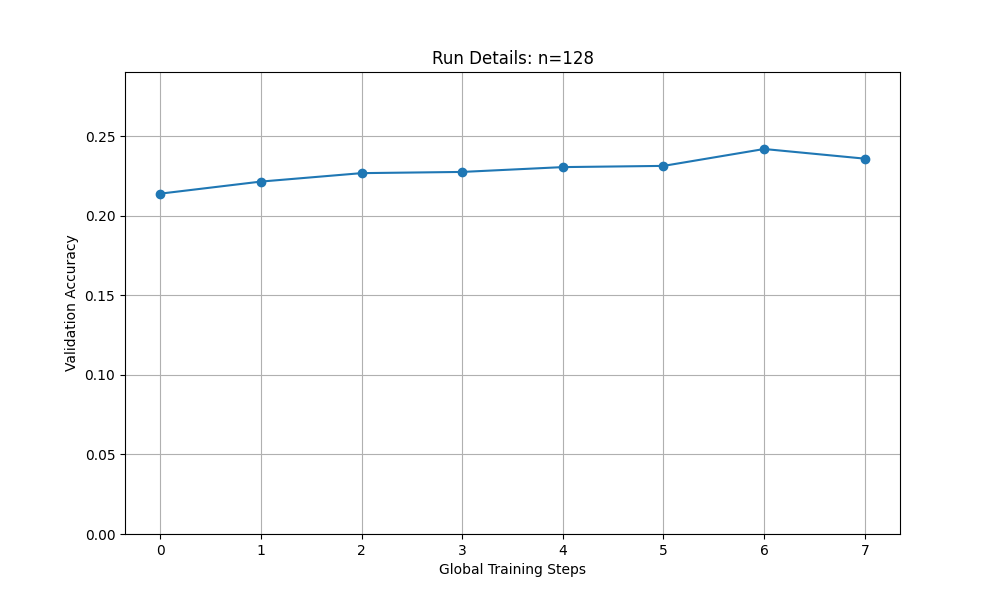
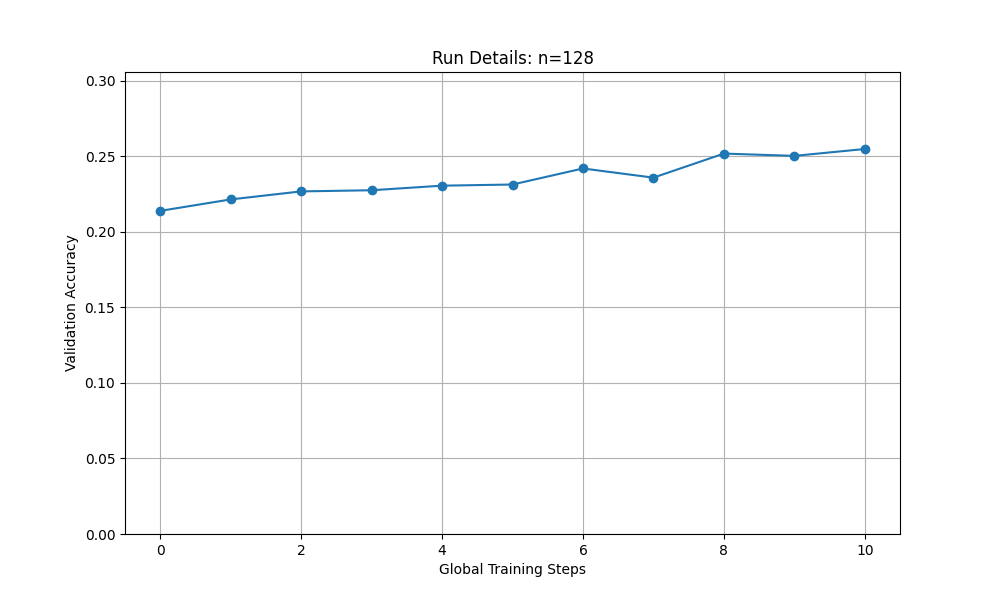
.

diff --git a/README.md b/README.md
@@ -171,10 +171,10 @@ GRPO 的强大之处在于，它通过巧妙的优势估计和裁剪机制，使
 
   * **模型**: `Qwen-2.5-Math-1.5B`
   * **数据集**: GSM8K (一个包含 8500 个高质量、语言多样的数学应用题的数据集)
-  * **数据生成 (Rollout)**: 使用一个高效的推理引擎 (vLLM) 从策略模型 (Policy Model) 中为每个问题（prompt）生成多组候选答案。
-  * **奖励计算 (Reward Calculation)**: 奖励计算 (Reward Calculation)。
+  * **数据生成 (Rollout)**: 使用高效推理引擎 (vLLM) 从 Policy Model 中为每个 prompt 生成多组候选答案。
+  * **奖励计算 (Reward Calculation)**: 对每个生成的答案进行评估，并计算其奖励（reward）。
   * **优势计算 (Advantage Calculation)**: 在每组候选答案内部进行奖励归一化（减去均值），计算出优势值 (advantage)。这是 GRPO 算法的核心，它通过组内对比来稳定训练过程。
-  * **模型更新 (Policy Update)**: 使用计算出的优势值，通过策略梯度方法更新模型参数。
+  * **模型更新 (Policy Update)**: 使用计算出的 advantage ，通过策略梯度方法更新模型参数。
 
 我们进行了一系列对比实验来验证 GRPO 算法不同组件的有效性。
 
@@ -194,7 +194,20 @@ GRPO 的强大之处在于，它通过巧妙的优势估计和裁剪机制，使
 ```
 
 * **结果**:
-    ![REINFORCE 基线对比图](./grpo_run/eval_curve.png)
+<table style="width: 100%;">
+  <tr>
+    <td align="center">
+      <img src="./grpo_run/eval_curve.png" alt="REINFORCE" width="400">
+      <br>
+      REINFORCE
+    </td>
+    <td align="center">
+      <img src="./grpo_no_baseline/eval_curve.png" alt="with balseline" width="400">
+      <br>
+      with balseline
+    </td>
+  </tr>
+</table>
 * **分析**: 从训练曲线可以看出，使用基线 (`reinforce_with_baseline`) 的版本收敛更稳定，最终达到的验证集准确率也更高。这证明了通过中心化奖励来降低方差的有效性，是策略梯度训练中不可或缺的一步。
 
 ### 实验二：长度归一化方法对比 (`masked_mean` vs. `masked_normalize`)
